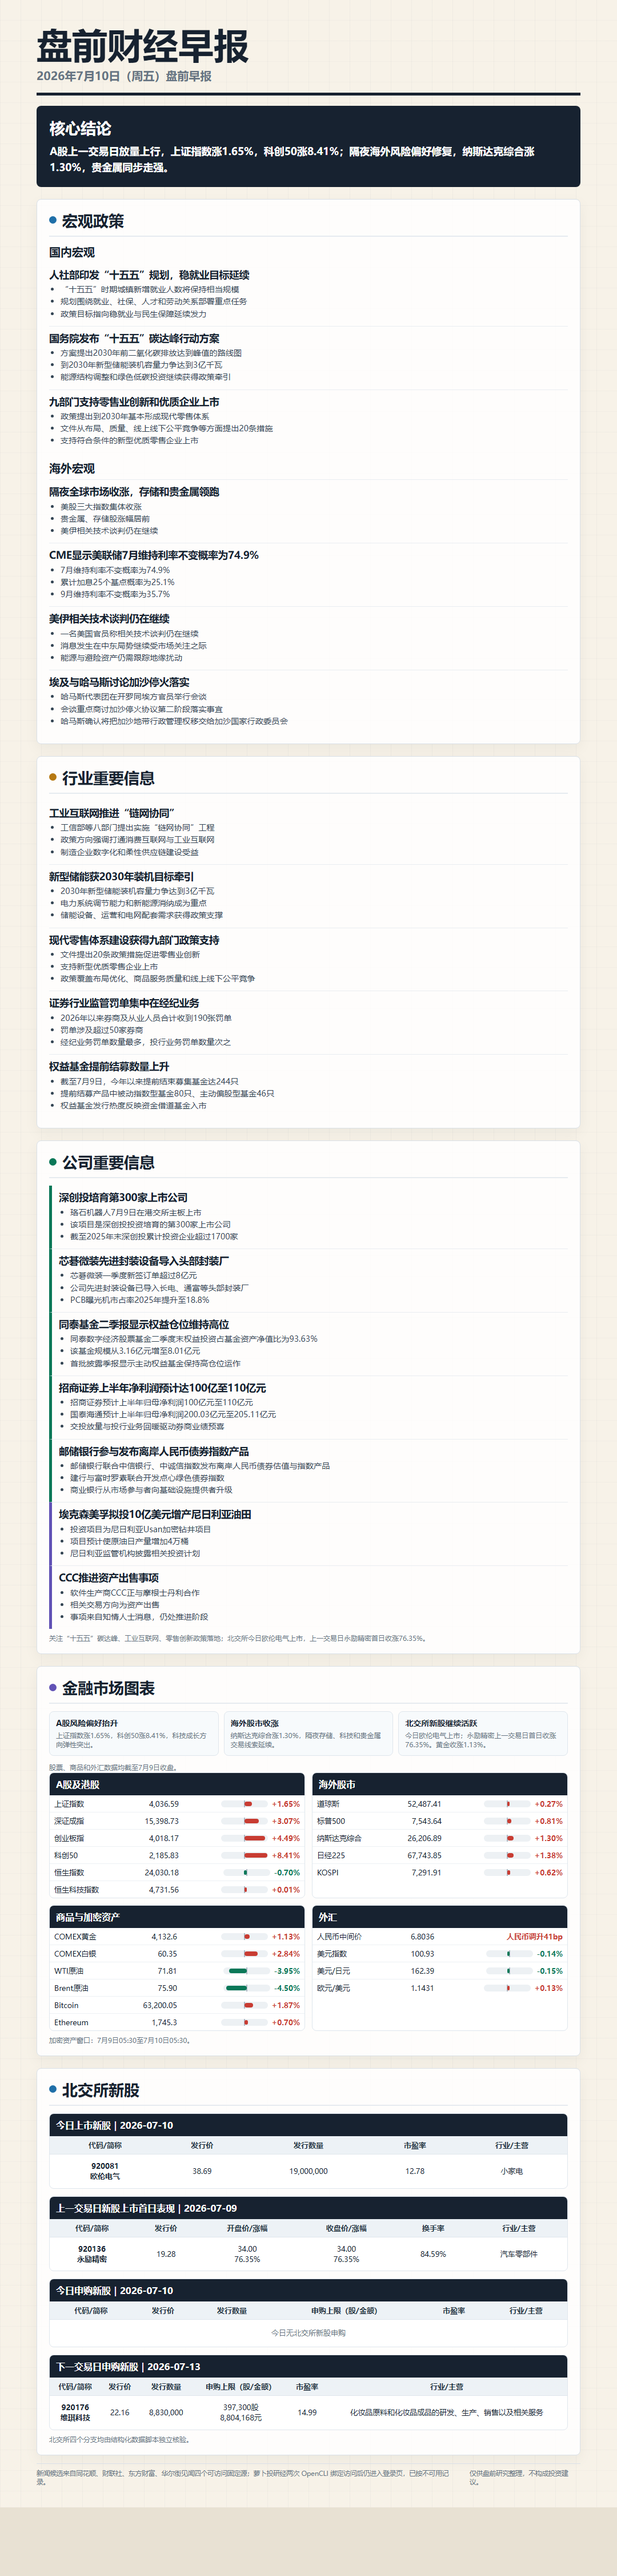
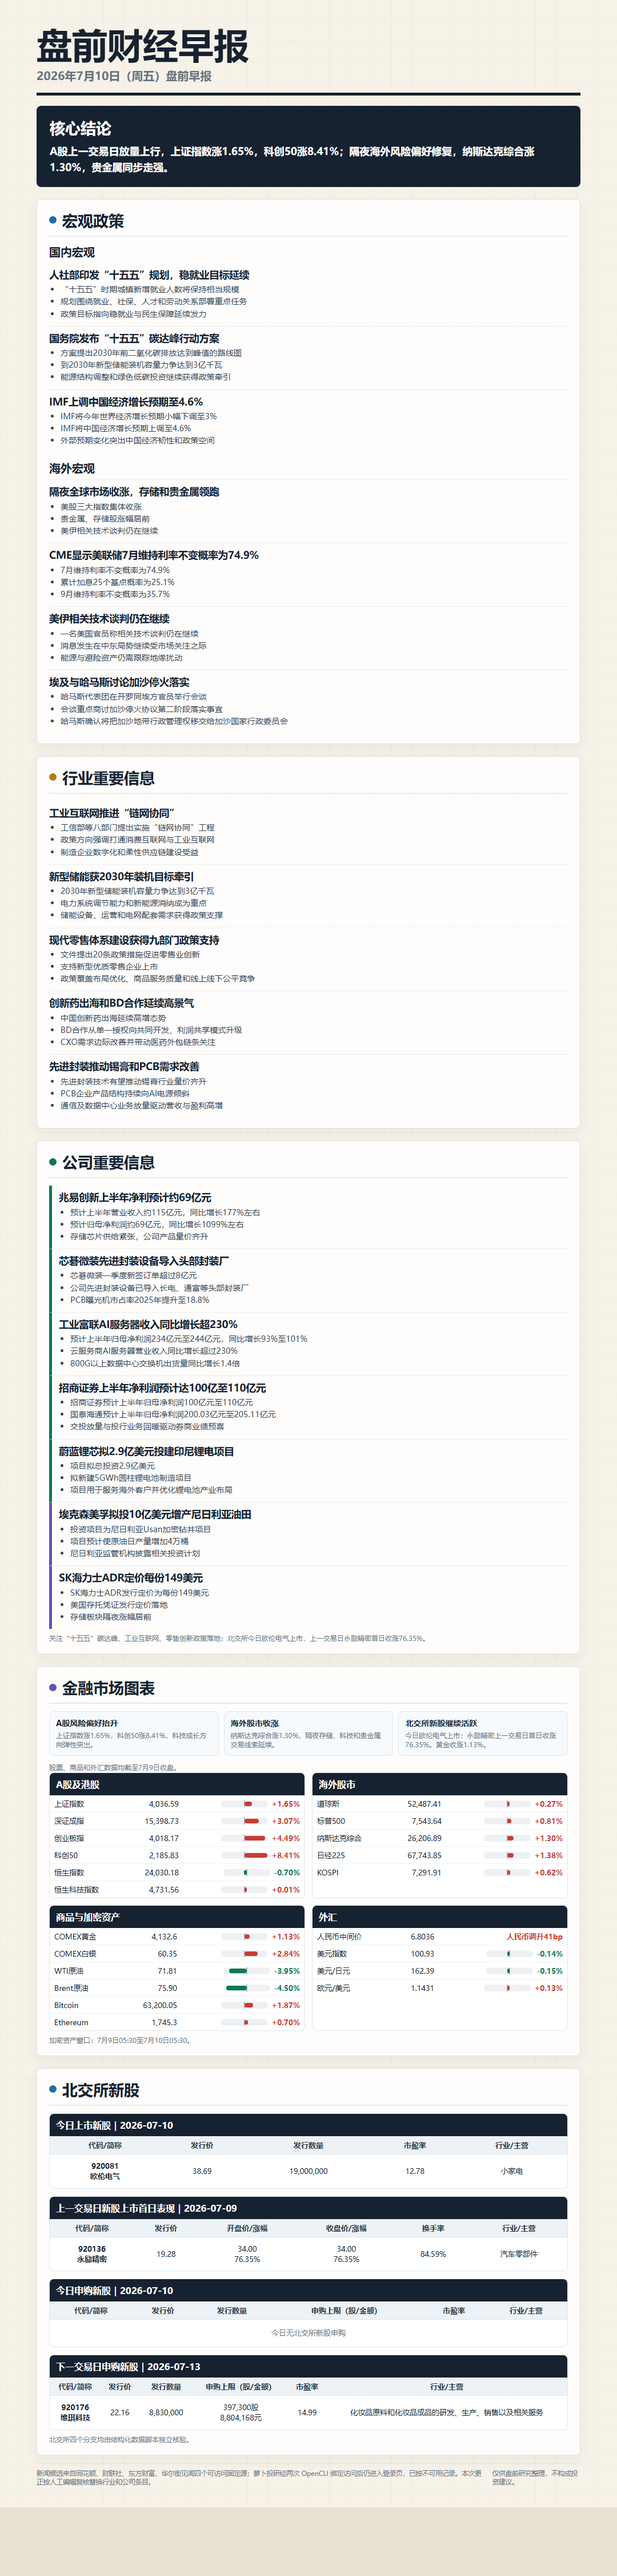
Correct 2026-07-10 morning brief

diff --git a/2026-07-10/report.html b/2026-07-10/report.html
@@ -34,8 +34,8 @@
       <ul><li>方案提出2030年前二氧化碳排放达到峰值的路线图</li><li>到2030年新型储能装机容量力争达到3亿千瓦</li><li>能源结构调整和绿色低碳投资继续获得政策牵引</li></ul>
     </article>
     <article class="item ">
-      <h4>九部门支持零售业创新和优质企业上市</h4>
-      <ul><li>政策提出到2030年基本形成现代零售体系</li><li>文件从布局、质量、线上线下公平竞争等方面提出20条措施</li><li>支持符合条件的新型优质零售企业上市</li></ul>
+      <h4>IMF上调中国经济增长预期至4.6%</h4>
+      <ul><li>IMF将今年世界经济增长预期小幅下调至3%</li><li>IMF将中国经济增长预期上调至4.6%</li><li>外部预期变化突出中国经济韧性和政策空间</li></ul>
     </article><h3 class="subhead">海外宏观</h3>
     <article class="item ">
       <h4>隔夜全球市场收涨，存储和贵金属领跑</h4>
@@ -67,43 +67,43 @@
       <ul><li>文件提出20条政策措施促进零售业创新</li><li>支持新型优质零售企业上市</li><li>政策覆盖布局优化、商品服务质量和线上线下公平竞争</li></ul>
     </article>
     <article class="item ">
-      <h4>证券行业监管罚单集中在经纪业务</h4>
-      <ul><li>2026年以来券商及从业人员合计收到190张罚单</li><li>罚单涉及超过50家券商</li><li>经纪业务罚单数量最多，投行业务罚单数量次之</li></ul>
+      <h4>创新药出海和BD合作延续高景气</h4>
+      <ul><li>中国创新药出海延续高增态势</li><li>BD合作从单一授权向共同开发、利润共享模式升级</li><li>CXO需求边际改善并带动医药外包链条关注</li></ul>
     </article>
     <article class="item ">
-      <h4>权益基金提前结募数量上升</h4>
-      <ul><li>截至7月9日，今年以来提前结束募集基金达244只</li><li>提前结募产品中被动指数型基金80只、主动偏股型基金46只</li><li>权益基金发行热度反映资金借道基金入市</li></ul>
+      <h4>先进封装推动锡膏和PCB需求改善</h4>
+      <ul><li>先进封装技术有望推动锡膏行业量价齐升</li><li>PCB企业产品结构持续向AI电源倾斜</li><li>通信及数据中心业务放量驱动营收与盈利高增</li></ul>
     </article></section>
   <section class="section"><h2 class="section-title"><span class="dot" style="background:var(--green)"></span>公司重要信息</h2>
     <article class="item company-line">
-      <h4>深创投培育第300家上市公司</h4>
-      <ul><li>珞石机器人7月9日在港交所主板上市</li><li>该项目是深创投投资培育的第300家上市公司</li><li>截至2025年末深创投累计投资企业超过1700家</li></ul>
+      <h4>兆易创新上半年净利预计约69亿元</h4>
+      <ul><li>预计上半年营业收入约115亿元，同比增长177%左右</li><li>预计归母净利润约69亿元，同比增长1099%左右</li><li>存储芯片供给紧张，公司产品量价齐升</li></ul>
     </article>
     <article class="item company-line">
       <h4>芯碁微装先进封装设备导入头部封装厂</h4>
       <ul><li>芯碁微装一季度新签订单超过8亿元</li><li>公司先进封装设备已导入长电、通富等头部封装厂</li><li>PCB曝光机市占率2025年提升至18.8%</li></ul>
     </article>
     <article class="item company-line">
-      <h4>同泰基金二季报显示权益仓位维持高位</h4>
-      <ul><li>同泰数字经济股票基金二季度末权益投资占基金资产净值比为93.63%</li><li>该基金规模从3.16亿元增至8.01亿元</li><li>首批披露季报显示主动权益基金保持高仓位运作</li></ul>
+      <h4>工业富联AI服务器收入同比增长超230%</h4>
+      <ul><li>预计上半年归母净利润234亿元至244亿元，同比增长93%至101%</li><li>云服务商AI服务器营业收入同比增长超过230%</li><li>800G以上数据中心交换机出货量同比增长1.4倍</li></ul>
     </article>
     <article class="item company-line">
       <h4>招商证券上半年净利润预计达100亿至110亿元</h4>
       <ul><li>招商证券预计上半年归母净利润100亿元至110亿元</li><li>国泰海通预计上半年归母净利润200.03亿元至205.11亿元</li><li>交投放量与投行业务回暖驱动券商业绩预喜</li></ul>
     </article>
     <article class="item company-line">
-      <h4>邮储银行参与发布离岸人民币债券指数产品</h4>
-      <ul><li>邮储银行联合中信银行、中诚信指数发布离岸人民币债券估值与指数产品</li><li>建行与富时罗素联合开发点心绿色债券指数</li><li>商业银行从市场参与者向基础设施提供者升级</li></ul>
+      <h4>蔚蓝锂芯拟2.9亿美元投建印尼锂电项目</h4>
+      <ul><li>项目拟总投资2.9亿美元</li><li>拟新建5GWh圆柱锂电池制造项目</li><li>项目用于服务海外客户并优化锂电池产业布局</li></ul>
     </article>
     <article class="item company-line overseas">
       <h4>埃克森美孚拟投10亿美元增产尼日利亚油田</h4>
       <ul><li>投资项目为尼日利亚Usan加密钻井项目</li><li>项目预计使原油日产量增加4万桶</li><li>尼日利亚监管机构披露相关投资计划</li></ul>
     </article>
     <article class="item company-line overseas">
-      <h4>CCC推进资产出售事项</h4>
-      <ul><li>软件生产商CCC正与摩根士丹利合作</li><li>相关交易方向为资产出售</li><li>事项来自知情人士消息，仍处推进阶段</li></ul>
+      <h4>SK海力士ADR定价每份149美元</h4>
+      <ul><li>SK海力士ADR发行定价为每份149美元</li><li>美国存托凭证发行定价落地</li><li>存储板块隔夜涨幅居前</li></ul>
     </article><p class="check-note">关注“十五五”碳达峰、工业互联网、零售创新政策落地；北交所今日欧伦电气上市，上一交易日永励精密首日收涨76.35%。</p></section>
   <section class="section"><h2 class="section-title"><span class="dot" style="background:var(--violet)"></span>金融市场图表</h2><div class="market-headlines"><div class="market-note"><b>A股风险偏好抬升</b><span>上证指数涨1.65%，科创50涨8.41%，科技成长方向弹性突出。</span></div><div class="market-note"><b>海外股市收涨</b><span>纳斯达克综合涨1.30%，隔夜存储、科技和贵金属交易线索延续。</span></div><div class="market-note"><b>北交所新股继续活跃</b><span>今日欧伦电气上市；永励精密上一交易日首日收涨76.35%。黄金收涨1.13%。</span></div></div><p class="market-caption">股票、商品和外汇数据均截至7月9日收盘。</p><div class="market-grid"><div class="market-box"><h3>A股及港股</h3><table><tr><td>上证指数</td><td>4,036.59</td><td><span class="bar-wrap"><span class="bar pos upb" style="width:13.2px"></span></span><span class="up">+1.65%</span></td></tr><tr><td>深证成指</td><td>15,398.73</td><td><span class="bar-wrap"><span class="bar pos upb" style="width:24.6px"></span></span><span class="up">+3.07%</span></td></tr><tr><td>创业板指</td><td>4,018.17</td><td><span class="bar-wrap"><span class="bar pos upb" style="width:36.0px"></span></span><span class="up">+4.49%</span></td></tr><tr><td>科创50</td><td>2,185.83</td><td><span class="bar-wrap"><span class="bar pos upb" style="width:40.0px"></span></span><span class="up">+8.41%</span></td></tr><tr><td>恒生指数</td><td>24,030.18</td><td><span class="bar-wrap"><span class="bar neg downb" style="width:5.6px"></span></span><span class="down">-0.70%</span></td></tr><tr><td>恒生科技指数</td><td>4,731.56</td><td><span class="bar-wrap"><span class="bar pos upb" style="width:4.0px"></span></span><span class="up">+0.01%</span></td></tr></table></div><div class="market-box"><h3>海外股市</h3><table><tr><td>道琼斯</td><td>52,487.41</td><td><span class="bar-wrap"><span class="bar pos upb" style="width:4.0px"></span></span><span class="up">+0.27%</span></td></tr><tr><td>标普500</td><td>7,543.64</td><td><span class="bar-wrap"><span class="bar pos upb" style="width:6.5px"></span></span><span class="up">+0.81%</span></td></tr><tr><td>纳斯达克综合</td><td>26,206.89</td><td><span class="bar-wrap"><span class="bar pos upb" style="width:10.4px"></span></span><span class="up">+1.30%</span></td></tr><tr><td>日经225</td><td>67,743.85</td><td><span class="bar-wrap"><span class="bar pos upb" style="width:11.1px"></span></span><span class="up">+1.38%</span></td></tr><tr><td>KOSPI</td><td>7,291.91</td><td><span class="bar-wrap"><span class="bar pos upb" style="width:5.0px"></span></span><span class="up">+0.62%</span></td></tr></table></div><div class="market-box"><h3>商品与加密资产</h3><table><tr><td>COMEX黄金</td><td>4,132.6</td><td><span class="bar-wrap"><span class="bar pos upb" style="width:9.0px"></span></span><span class="up">+1.13%</span></td></tr><tr><td>COMEX白银</td><td>60.35</td><td><span class="bar-wrap"><span class="bar pos upb" style="width:22.7px"></span></span><span class="up">+2.84%</span></td></tr><tr><td>WTI原油</td><td>71.81</td><td><span class="bar-wrap"><span class="bar neg downb" style="width:31.6px"></span></span><span class="down">-3.95%</span></td></tr><tr><td>Brent原油</td><td>75.90</td><td><span class="bar-wrap"><span class="bar neg downb" style="width:36.0px"></span></span><span class="down">-4.50%</span></td></tr><tr><td>Bitcoin</td><td>63,200.05</td><td><span class="bar-wrap"><span class="bar pos upb" style="width:15.0px"></span></span><span class="up">+1.87%</span></td></tr><tr><td>Ethereum</td><td>1,745.3</td><td><span class="bar-wrap"><span class="bar pos upb" style="width:5.6px"></span></span><span class="up">+0.70%</span></td></tr></table></div><div class="market-box"><h3>外汇</h3><table><tr><td>人民币中间价</td><td>6.8036</td><td><span class="up">人民币调升41bp</span></td></tr><tr><td>美元指数</td><td>100.93</td><td><span class="bar-wrap"><span class="bar neg downb" style="width:4.0px"></span></span><span class="down">-0.14%</span></td></tr><tr><td>美元/日元</td><td>162.39</td><td><span class="bar-wrap"><span class="bar neg downb" style="width:4.0px"></span></span><span class="down">-0.15%</span></td></tr><tr><td>欧元/美元</td><td>1.1431</td><td><span class="bar-wrap"><span class="bar pos upb" style="width:4.0px"></span></span><span class="up">+0.13%</span></td></tr></table></div></div><p class="market-caption">加密资产窗口：7月9日05:30至7月10日05:30。</p></section>
   <section class="section"><h2 class="section-title"><span class="dot" style="background:var(--blue)"></span>北交所新股</h2><div class="ipo-box"><h3>今日上市新股｜2026-07-10</h3><table class="ipo-table"><tr><th>代码/简称</th><th>发行价</th><th>发行数量</th><th>市盈率</th><th>行业/主营</th></tr><tr><td class="codecell">920081<br>欧伦电气</td><td>38.69</td><td>19,000,000</td><td>12.78</td><td>小家电</td></tr></table></div><div class="ipo-box"><h3>上一交易日新股上市首日表现｜2026-07-09</h3><table class="ipo-table"><tr><th>代码/简称</th><th>发行价</th><th>开盘价/涨幅</th><th>收盘价/涨幅</th><th>换手率</th><th>行业/主营</th></tr><tr><td class="codecell">920136<br>永励精密</td><td>19.28</td><td>34.00<br>76.35%</td><td>34.00<br>76.35%</td><td>84.59%</td><td>汽车零部件</td></tr></table></div><div class="ipo-box"><h3>今日申购新股｜2026-07-10</h3><table class="ipo-table"><tr><th>代码/简称</th><th>发行价</th><th>发行数量</th><th>申购上限（股/金额）</th><th>市盈率</th><th>行业/主营</th></tr><tr><td class="empty" colspan="6">今日无北交所新股申购</td></tr></table></div><div class="ipo-box"><h3>下一交易日申购新股｜2026-07-13</h3><table class="ipo-table"><tr><th>代码/简称</th><th>发行价</th><th>发行数量</th><th>申购上限（股/金额）</th><th>市盈率</th><th>行业/主营</th></tr><tr><td class="codecell">920176<br>维琪科技</td><td>22.16</td><td>8,830,000</td><td class="shares">397,300股<br>8,804,168元</td><td>14.99</td><td>化妆品原料和化妆品成品的研发、生产、销售以及相关服务</td></tr></table></div><div class="check-note">北交所四个分支均由结构化数据脚本独立核验。</div></section>
-  <footer><div>新闻候选来自同花顺、财联社、东方财富、华尔街见闻四个可访问固定源；萝卜投研经两次 OpenCLI 绑定访问后仍进入登录页，已按不可用记录。</div><div>仅供盘前研究整理，不构成投资建议。</div></footer>
+  <footer><div>新闻候选来自同花顺、财联社、东方财富、华尔街见闻四个可访问固定源；萝卜投研经两次 OpenCLI 绑定访问后仍进入登录页，已按不可用记录。本次更正按人工编辑复核替换行业和公司条目。</div><div>仅供盘前研究整理，不构成投资建议。</div></footer>
 </main></body></html>

diff --git a/2026-07-10/sources-2026-07-10.md b/2026-07-10/sources-2026-07-10.md
@@ -6,34 +6,31 @@
 ## News routes
 - 同花顺: https://news.10jqka.com.cn/today_list/
 - 财联社: https://m.cls.cn/telegraph
-- 东方财富: https://finance.eastmoney.com/yaowen.html and https://finance.eastmoney.com/
+- 东方财富: https://finance.eastmoney.com/yaowen.html, https://finance.eastmoney.com/ and detail article pages
 - 华尔街见闻: https://wallstreetcn.com/live
 - 萝卜投研: unavailable after two OpenCLI Browser Bridge bind/open/state attempts reached login page.
 
-## Source status
-- 同花顺: ok; candidates=15; route=news.10jqka.com.cn/today_list list anchors -> detail article pages
-- 萝卜投研: unavailable; candidates=0; route=login_page
-- 财联社: ok; candidates=15; route=m.cls.cn/telegraph embedded roll_data -> www.cls.cn detail URLs
-- 东方财富: candidate_short; candidates=7; route=finance.eastmoney.com/yaowen.html plus finance.eastmoney.com homepage ranking anchors -> detail article pages
-- 华尔街见闻: ok; candidates=15; route=wallstreetcn.com/live HTML livenews route -> livenews detail URLs
+## Editorial correction
+- Replaced duplicated/market-structure industry and weak company items after manual review.
+- Kept carbon-peak policy in domestic macro per user confirmation; IMF moved to domestic macro slot 3.
 
 ## Selected article URLs
 - domesticMacro: “十五五”期间人社事业发展将实现诸多突破 城镇新增就业人数将保持相当规模 - https://news.10jqka.com.cn/20260710/c678080320.shtml
 - domesticMacro: 国务院印发《“十五五”碳达峰行动方案》 到2030年新型储能装机容量力争达到3亿千瓦 - https://finance.eastmoney.com/a/202607093800431064.html
-- domesticMacro: 9閮ㄩ棬鍙戞枃鏀寔鏂板瀷浼樿川闆跺敭浼佷笟涓婂競 - https://news.10jqka.com.cn/20260710/c678079495.shtml
-- overseasMacro: 周五你需要知道的隔夜全球要闻：美伊相关技术谈判据称仍在继续；美股三大指数集体收涨 贵金属、存储股涨幅居前；SK海力士美国IPO定价为每份ADS 149美元；OpenAI正式推出Gpt-5.6系列模型 - https://www.cls.cn/detail/2422261
+- domesticMacro: 从IMF报告中的“一升一降”读懂中国经济的韧性和活力 - https://news.10jqka.com.cn/20260710/c678079303.shtml
+- overseasMacro: 周五你需要知道的隔夜全球要闻：美股三大指数集体收涨 贵金属、存储股涨幅居前 - https://www.cls.cn/detail/2422261
 - overseasMacro: 美联储7月维持利率不变的概率为74.9% - https://www.cls.cn/detail/2422260
 - overseasMacro: 美官员：美伊相关技术谈判仍在继续 - https://wallstreetcn.com/livenews/3131563
 - overseasMacro: 埃及同哈马斯讨论落实加沙停火事宜 - https://www.cls.cn/detail/2422257
 - industry: 让制造端更快听懂市场“好声音” - https://news.10jqka.com.cn/20260710/c678079675.shtml
 - industry: 国务院印发《“十五五”碳达峰行动方案》 到2030年新型储能装机容量力争达到3亿千瓦 - https://finance.eastmoney.com/a/202607093800431064.html
 - industry: 九部门定调现代零售体系 - https://news.10jqka.com.cn/20260710/c678079333.shtml
-- industry: 券商年内领190张罚单 经纪业务成违规重点 - https://www.cls.cn/detail/2422272
-- industry: 今年以来提前结募基金数量大增 - https://www.cls.cn/detail/2422270
-- domesticCompanies: 投资培育上市公司达300家，深创投：推动资本和产业深度融合 - https://wallstreetcn.com/livenews/3131579
-- domesticCompanies: 机构调研丨先进封装+PCB+光刻机 这家公司在手订单充足 先进封装设备已导入头部封装厂 - https://finance.eastmoney.com/a/202607093800043243.html
-- domesticCompanies: 首批基金二季报披露 主动权益类基金保持高仓位运作 - https://www.cls.cn/detail/2422262
+- industry: 创新药板块向好趋势不改 优质资产已进入配置区间 - https://www.cls.cn/detail/2422273
+- industry: 研选•研报数据：先进封装推动锡膏景气，PCB业务受AI电源和数据中心驱动 - https://www.cls.cn/detail/2421180
+- domesticCompanies: 兆易创新：上半年净利同比预增1099%左右 存储芯片产品量价齐升 - https://finance.eastmoney.com/a/202607093800140351.html
+- domesticCompanies: 机构调研丨芯碁微装先进封装设备导入头部封装厂 - https://finance.eastmoney.com/a/202607093800043243.html
+- domesticCompanies: 工业富联上半年净利预计最高244亿元 云服务商AI服务器营收同比增长超230% - https://finance.eastmoney.com/a/202607093800164891.html
 - domesticCompanies: 交投放量与投行业务回暖驱动，券商纷纷预喜2026年半年度业绩 - https://wallstreetcn.com/livenews/3131572
-- domesticCompanies: 从“市场参与者”向“基础设施提供者”升级，商业银行扩大离岸人民币债券基准“版图” - https://wallstreetcn.com/livenews/3131576
+- domesticCompanies: 蔚蓝锂芯拟投资2.9亿美元在印尼新建锂电项目 - https://finance.eastmoney.com/a/202607103800475846.html
 - overseasCompanies: 监管机构称：埃克森美孚及合作伙伴将向尼日利亚油田投资10亿美元 - https://wallstreetcn.com/livenews/3131568
-- overseasCompanies: 财联社7月10日电，据知情人士透露，软件生产商CCC正与摩根士丹利合作推进一项资产出售事宜。 - https://www.cls.cn/detail/2422256
+- overseasCompanies: SK海力士ADR发行定价为每份149美元 - https://www.cls.cn/detail/2422259
